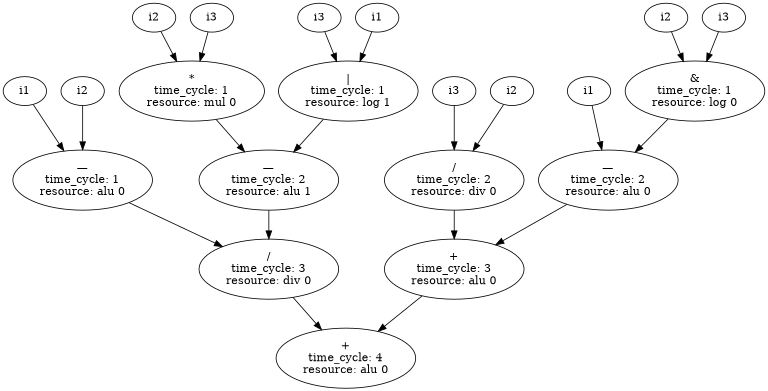
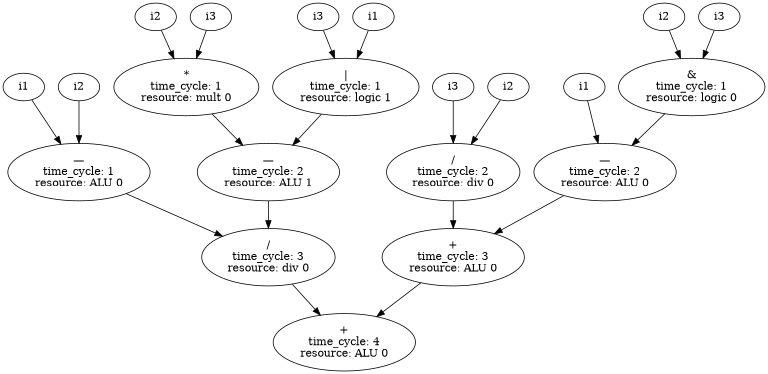
update visualize Ranked scheduled graph

diff --git a/src/graph_visualizer.py b/src/graph_visualizer.py
@@ -152,7 +152,6 @@ def visualize_scheduled_graph(
         cur_node_id = str(node_counter)
         node_counter += 1
 
-        # آمادهسازی label
         if node_sched is None:
             if node.name.isdigit():
                 label = f"const={node.name}"
@@ -162,14 +161,13 @@ def visualize_scheduled_graph(
             if isinstance(node_sched.node, OperatorNode):
                 label = (
                     f"{node.name}\ntime_cycle: {node_sched.scheduled_time}\n"
-                    f"resource: {node_sched.node.op_type.lower()} {node_sched.resource_num}"
+                    f"resource: {node_sched.node.op_type} {node_sched.resource_num}"
                 )
             elif isinstance(node_sched.node, IdentifierNode):
                 label = node_sched.node.name
             else:
                 label = type(node).__name__
 
-        # version 2 logic
         if version == 2:
             if not (
                 label.startswith("const=")
@@ -185,18 +183,15 @@ def visualize_scheduled_graph(
                 else:
                     visited_identifiers[label] = cur_node_id
                     dot.node(cur_node_id, label)
-                    # identifier_nodes.append(cur_node_id)  # نیازی به subgraph نیست
             else:
                 dot.node(cur_node_id, label)
         else:
             dot.node(cur_node_id, label)
 
 
-        # اضافه کردن لبه به parent
         if parent_id is not None:
             dot.edge(cur_node_id, parent_id)
 
-        # بازگشت به child nodes
         if node_sched is not None and isinstance(node_sched.node, OperatorNode):
             for child_node in node_sched.node.operands:
                 child_sched = find_node_by_id(child_node.id)
@@ -207,7 +202,6 @@ def visualize_scheduled_graph(
     root_sched = find_node_by_id(root_id)
     add_node_and_edges(node_sched=root_sched, node=root_sched.node)
 
-    # رسم subgraph برای شناسهها (version 2)
     if version == 2 and identifier_nodes:
         with dot.subgraph() as s:
             s.attr(rank="source")
@@ -220,7 +214,6 @@ def visualize_scheduled_graph(
 def visualize_scheduled_graph_ranked(
     root_id, schedule_info: list, version=1
 ):
-    # تابع کمکی برای پیدا کردن نود در لیست زمانبندی
     def find_node_by_id(id):
         for sched_node in schedule_info:
             if sched_node.node.id == id:
@@ -229,14 +222,11 @@ def visualize_scheduled_graph_ranked(
 
     dot = graphviz.Digraph(comment="Scheduled Graph Ranked")
     dot.attr(rankdir="TB")
-    dot.attr(newrank="true")  # برای اطمینان از اعمال صحیح رنکینگ
-
-    # متغیرهای سراسری برای پیمایش
-    node_counter = 0
-    visited_identifiers = dict()  # برای ورژن ۲
+    dot.attr(newrank="true")
     
-    # این دیکشنری کلیدش شماره سیکل (یا 'source') است و مقدارش لیست ID نودهای گرافویز
-    # برای اعمال rank=same در انتهای کار استفاده میشود
+    node_counter = 0
+    visited_identifiers = dict()
+    
     layers = defaultdict(list)
 
     def add_node_and_edges(
@@ -246,15 +236,11 @@ def visualize_scheduled_graph_ranked(
         nonlocal visited_identifiers
         nonlocal layers
 
-        # -------------------------------------------------
-        # 1. تعیین Label و اطلاعات نود (مشابه کد اصلی)
-        # -------------------------------------------------
         label = ""
-        cycle_key = None # کلیدی برای گروهبندی در لایهها
+        cycle_key = None 
 
         if node_sched is None:
-            # نودهای بدون زمانبندی (معمولاً ورودیها یا اعداد ثابت)
-            cycle_key = "source" # اینها باید در بالاترین سطح باشند
+            cycle_key = "source"
             if hasattr(node, 'name') and node.name.isdigit():
                 label = f"const={node.name}"
             elif hasattr(node, 'name'):
@@ -262,42 +248,32 @@ def visualize_scheduled_graph_ranked(
             else:
                 label = type(node).__name__
         else:
-            # نودهای عملیاتی زمانبندی شده
-            # سیکل زمانبندی را به عنوان کلید لایه برمیداریم
             cycle_key = node_sched.scheduled_time
             
-            # ساخت لیبل بر اساس نوع نود
-            if hasattr(node, 'op_type'): # OperatorNode
+            if hasattr(node, 'op_type'):
                 label = (
                     f"{node.name}\ntime_cycle: {node_sched.scheduled_time}\n"
-                    f"resource: {node_sched.node.op_type.lower()} {node_sched.resource_num}"
+                    f"resource: {node_sched.node.op_type} {node_sched.resource_num}"
                 )
-            elif hasattr(node, 'name'): # IdentifierNode
+            elif hasattr(node, 'name'):
                 label = node.node.name
             else:
                 label = type(node).__name__
 
-        # -------------------------------------------------
-        # 2. تعیین ID نود گرافویز بر اساس ورژن (منطق اصلی)
-        # -------------------------------------------------
         cur_node_id = str(node_counter)
-        is_existing_node = False # پرچمی برای اینکه بدانیم نود قبلا ساخته شده یا نه
+        is_existing_node = False
 
         if version == 2:
-            # منطق ورژن ۲: ادغام شناسه های مشابه
-            # شرط چک کردن اینکه آیا نود باید ادغام شود یا خیر (طبق کد اصلی)
             should_merge = True
             
-            # لیست استثناهایی که نباید مرج شوند (طبق کد اصلی)
             lower_label = label.lower()
             if (
                 label.startswith("const=")
                 or lower_label.startswith("alu")
                 or lower_label.startswith("mult")
+                or lower_label.startswith("div")
                 or lower_label.startswith("shift")
                 or lower_label.startswith("logic")
-                or lower_label.startswith("unary")
-                or lower_label.startswith("cmp")
             ):
                 should_merge = False
 
@@ -306,39 +282,23 @@ def visualize_scheduled_graph_ranked(
                     cur_node_id = visited_identifiers[label]
                     is_existing_node = True
                 else:
-                    # استفاده از کانتر فعلی اما ثبت آن برای استفادههای بعدی
                     cur_node_id = str(node_counter)
                     node_counter += 1
                     visited_identifiers[label] = cur_node_id
             else:
-                # اگر نباید مرج شود، یک ID جدید می سازیم
                 cur_node_id = str(node_counter)
                 node_counter += 1
         else:
-            # ورژن ۱: همیشه نود جدید (بدون ادغام)
             cur_node_id = str(node_counter)
             node_counter += 1
 
-        # -------------------------------------------------
-        # 3. رسم نود و ذخیره در لایه مناسب
-        # -------------------------------------------------
-        # اگر نود تکراری نیست، آن را به گراف اضافه کن و در لایه ثبت کن
         if not is_existing_node:
             dot.node(cur_node_id, label)
             layers[cycle_key].append(cur_node_id)
         
-        # نکته: حتی اگر نود تکراری باشد (در ورژن ۲)، چون قبلا در layers ثبت شده،
-        # نیازی نیست دوباره append شود.
-
-        # -------------------------------------------------
-        # 4. رسم یال به والد (Edge)
-        # -------------------------------------------------
         if parent_id is not None:
             dot.edge(cur_node_id, parent_id)
 
-        # -------------------------------------------------
-        # 5. بازگشت (Recursion) روی فرزندان
-        # -------------------------------------------------
         if node_sched is not None and hasattr(node, 'operands'):
             for child_node in node.operands:
                 child_sched = find_node_by_id(child_node.id)
@@ -346,33 +306,24 @@ def visualize_scheduled_graph_ranked(
                     node_sched=child_sched, node=child_node, parent_id=cur_node_id
                 )
 
-    # شروع پردازش از ریشه
     root_sched = find_node_by_id(root_id)
     if root_sched:
         add_node_and_edges(node_sched=root_sched, node=root_sched.node)
     
-    # -------------------------------------------------
-    # اعمال Ranking (تغییر جدید و مهم)
-    # -------------------------------------------------
-    # این بخش بعد از ساخت تمام نودها اجرا میشود تا جایگاه آنها را تنظیم کند.
-    
-    # 1. قرار دادن ورودیها در بالاترین سطح (Source)
     if "source" in layers:
         with dot.subgraph(name="cluster_inputs") as s:
-            s.attr(style='invis') # نامرئی بودن کادر دور
-            s.attr(rank='source') # دستور کلیدی: همتراز با منبع
+            s.attr(style='invis')
+            s.attr(rank='source')
             for nid in layers["source"]:
-                s.node(nid) # اشاره به نودهایی که قبلا ساخته شدهاند
+                s.node(nid)
 
-    # 2. قرار دادن نودهای هر سیکل در یک ارتفاع (Same Rank)
-    # مرتبسازی کلیدها برای اطمینان از نظم (هرچند rank=same به ترتیب کاری ندارد)
     sorted_cycles = sorted([k for k in layers.keys() if k != "source"])
     
     for cycle in sorted_cycles:
         with dot.subgraph(name=f"cycle_{cycle}") as s:
-            s.attr(rank='same') # دستور کلیدی: همارتفاع بودن
+            s.attr(rank='same')
             for nid in layers[cycle]:
-                s.node(nid) # اشاره به نودهایی که قبلا ساخته شدهاند
+                s.node(nid)
 
     return dot
 

diff --git a/main.py b/main.py
@@ -56,7 +56,11 @@ def build_dfg(expression: str, folder_path : str):
     dotv2.attr(label="", labelloc='t', fontsize='17')  
     dotv2.render(folder_path + "/pics/DFG-V2", format='png', view=False, cleanup=True)
 
+    print("Visulization Done")
+    
     builder = GraphBuilder()
+    
+    print("Build Done")
     return builder.build(ast_root)
 
 
@@ -74,6 +78,7 @@ def schedule_dfg(dfg_root, algorithm : str, config : dict, folder_path : str) ->
     scheduler.schedule()
     schedule_info = scheduler.get_scheduling_info()
 
+    print("schedule Done")
     dotv1 = visualize_scheduled_graph(root_id=dfg_root.id, schedule_info=schedule_info, version = 1)
     dotv1.attr(label="", labelloc='t', fontsize='17')  
     dotv1.render(folder_path + "/pics/ScheduledDFG-V1", format='png', view=False, cleanup=True)
@@ -82,6 +87,7 @@ def schedule_dfg(dfg_root, algorithm : str, config : dict, folder_path : str) ->
     dotv2.attr(label="", labelloc='t', fontsize='17')  
     dotv2.render(folder_path + "/pics/ScheduledDFG-V2", format='png', view=False, cleanup=True)
 
+    print("Visualize schedule Done")
     dotv1 = visualize_scheduled_graph_ranked(root_id=dfg_root.id, schedule_info=schedule_info, version = 1)
     dotv1.attr(label="", labelloc='t', fontsize='17')  
     dotv1.render(folder_path + "/pics/RankedScheduledDFG-V1", format='png', view=False, cleanup=True)
@@ -89,7 +95,7 @@ def schedule_dfg(dfg_root, algorithm : str, config : dict, folder_path : str) ->
     dotv2 = visualize_scheduled_graph_ranked(root_id=dfg_root.id, schedule_info=schedule_info, version = 2)
     dotv2.attr(label="", labelloc='t', fontsize='17')  
     dotv2.render(folder_path + "/pics/RankedScheduledDFG-V2", format='png', view=False, cleanup=True)
-
+    print("Visualize Rank schedule done")
 
     return schedule_info
 

diff --git a/src/dfg_creator.py b/src/dfg_creator.py
@@ -2,16 +2,16 @@ import ast
 from abc import ABC, abstractmethod
 from typing import Optional, List
 
-OP_TYPES = ["ALU", "MUL", "div", "shift", "LOG", "pow"]
+OP_TYPES = ["ALU", "mult", "shift", "logic", "pow"]
 
 op_map = {
     ast.Add: "ALU", ast.Sub: "ALU",
-    ast.Mult: "MUL", ast.Div: "div", ast.FloorDiv: "div", ast.Mod: "div",
+    ast.Mult: "mult", ast.Div: "mult", ast.FloorDiv: "mult", ast.Mod: "mult",
     ast.Pow: "pow",
     ast.LShift: "shift", ast.RShift: "shift",
-    ast.BitAnd: "LOG", ast.BitOr: "LOG", ast.BitXor: "LOG",
-    ast.Invert: "LOG", ast.UAdd: "LOG", ast.USub: "LOG",
-    ast.Eq: "LOG", ast.NotEq: "LOG", ast.Lt: "ALU", ast.LtE: "ALU", ast.Gt: "ALU", ast.GtE: "ALU",
+    ast.BitAnd: "logic", ast.BitOr: "logic", ast.BitXor: "logic",
+    ast.Invert: "logic", ast.UAdd: "logic", ast.USub: "logic",
+    ast.Eq: "logic", ast.NotEq: "logic", ast.Lt: "ALU", ast.LtE: "ALU", ast.Gt: "ALU", ast.GtE: "ALU",
 }
 
 symbols = {
@@ -80,7 +80,7 @@ class OperatorNode(BaseNode):
         return f"{self.op_type} ['{left_name}', '{right_name}'] (depth={self.depth})"
   
 def resource_allocator(node : OperatorNode) -> str:
-    return "MUL" if (node.op_type == "div") else node.op_type
+    return "mult" if (node.op_type == "mult") else node.op_type
     
 class GraphBuilder:
     def __init__(self):

diff --git a/src/scheduler.py b/src/scheduler.py
@@ -188,53 +188,6 @@ class MinLatencyScheduler(ListScheduler):
             self.current_time += 1
 
 
-
-
-
-
-
-
-
-
-
-
-
-
-
-
-
-
-
-
-
-
-
-
-
-
-
-
-
-
-
-
-
-
-
-
-
-
-
-
-
-
-
-
-
-
-
-
-
 class MinResourceScheduler(ListScheduler):
     
     def __init__(self, dfg_root : BaseNode, numof_resources : dict, max_time : int):
